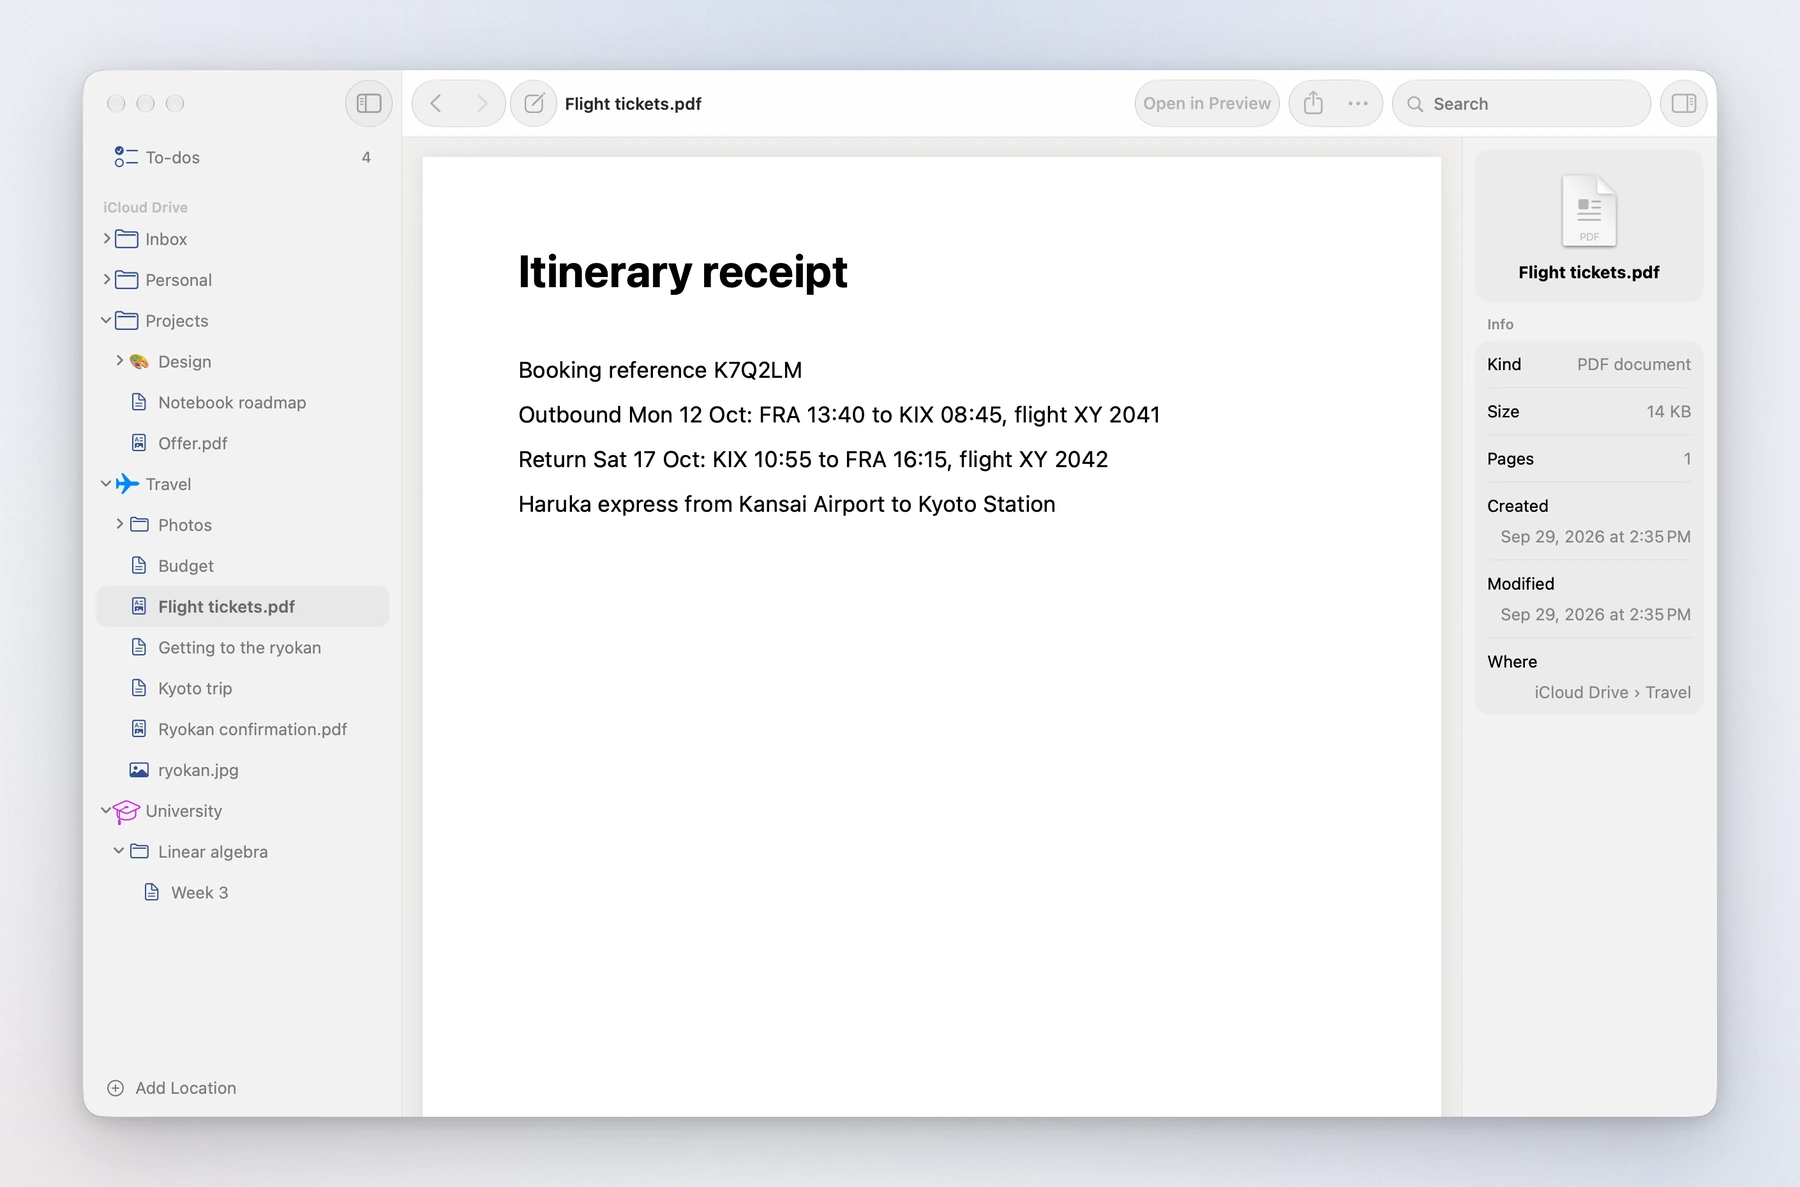
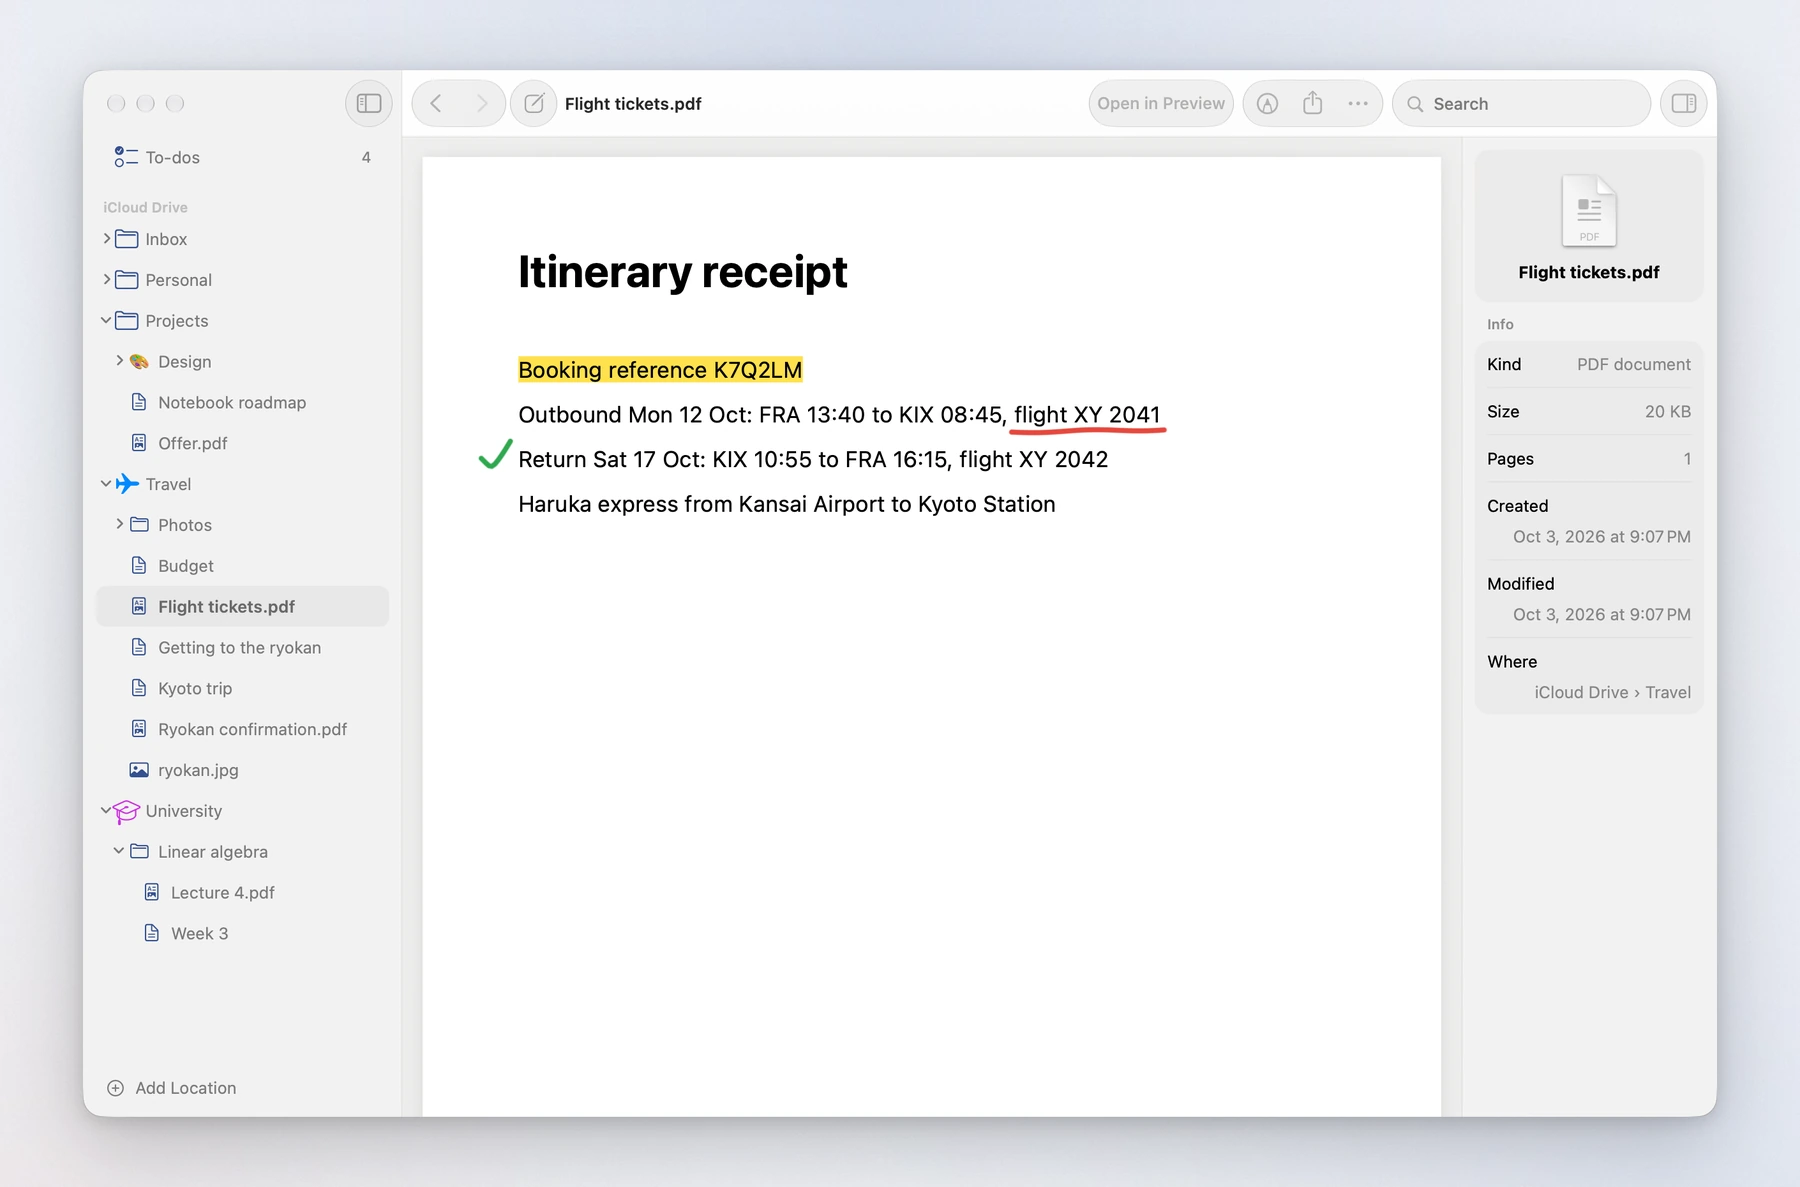
README pictures for 1.2: All Pages on the iPhone, and the sample PDF's highlight, underline and tick on the Mac
Closes #255.

diff --git a/README.md b/README.md
@@ -166,7 +166,7 @@ any PDF does, its writing as sharp as the page, and the pencil writes on it ther
 
 <picture>
   <source media="(prefers-color-scheme: dark)" srcset="Design/screenshots/handwriting-dark.webp">
-  <img alt="Lecture 4.pdf on an iPad with the pen on: notes on eigenvalues on Cornell paper, written by hand, with an equation marked in yellow, a photo of the blackboard on the page, the result ringed in red and a sketch of two arrows, and the tool picker below; in front of it an iPhone with the same page" src="Design/screenshots/handwriting-light.webp">
+  <img alt="Lecture 4.pdf on an iPad with the pen on: notes on eigenvalues on Cornell paper, written by hand, with an equation marked in yellow, a photo of the blackboard on the page, the result ringed in red and a sketch of two arrows, and the tool picker below; in front of it an iPhone showing All Pages, the note's five pages small on Cornell, squared, lined and dotted paper" src="Design/screenshots/handwriting-light.webp">
 </picture>
 
 ### Tables, diagrams, code and maths
@@ -406,7 +406,7 @@ lists each kind of file has a symbol of its own, in the accent colour as folders
 
 <picture>
   <source media="(prefers-color-scheme: dark)" srcset="Design/screenshots/quicklook-dark.webp">
-  <img alt="Flight tickets.pdf open in the window, its page on grey as in Preview, with its kind, size, page count, dates and folder in the inspector" src="Design/screenshots/quicklook-light.webp">
+  <img alt="Flight tickets.pdf open in the window, its page on grey as in Preview, the booking reference highlighted in yellow, the flight out underlined in red and the way back ticked in green, with its kind, size, page count, dates and folder in the inspector" src="Design/screenshots/quicklook-light.webp">
 </picture>
 
 ### A Mac app, made of the Mac's parts
